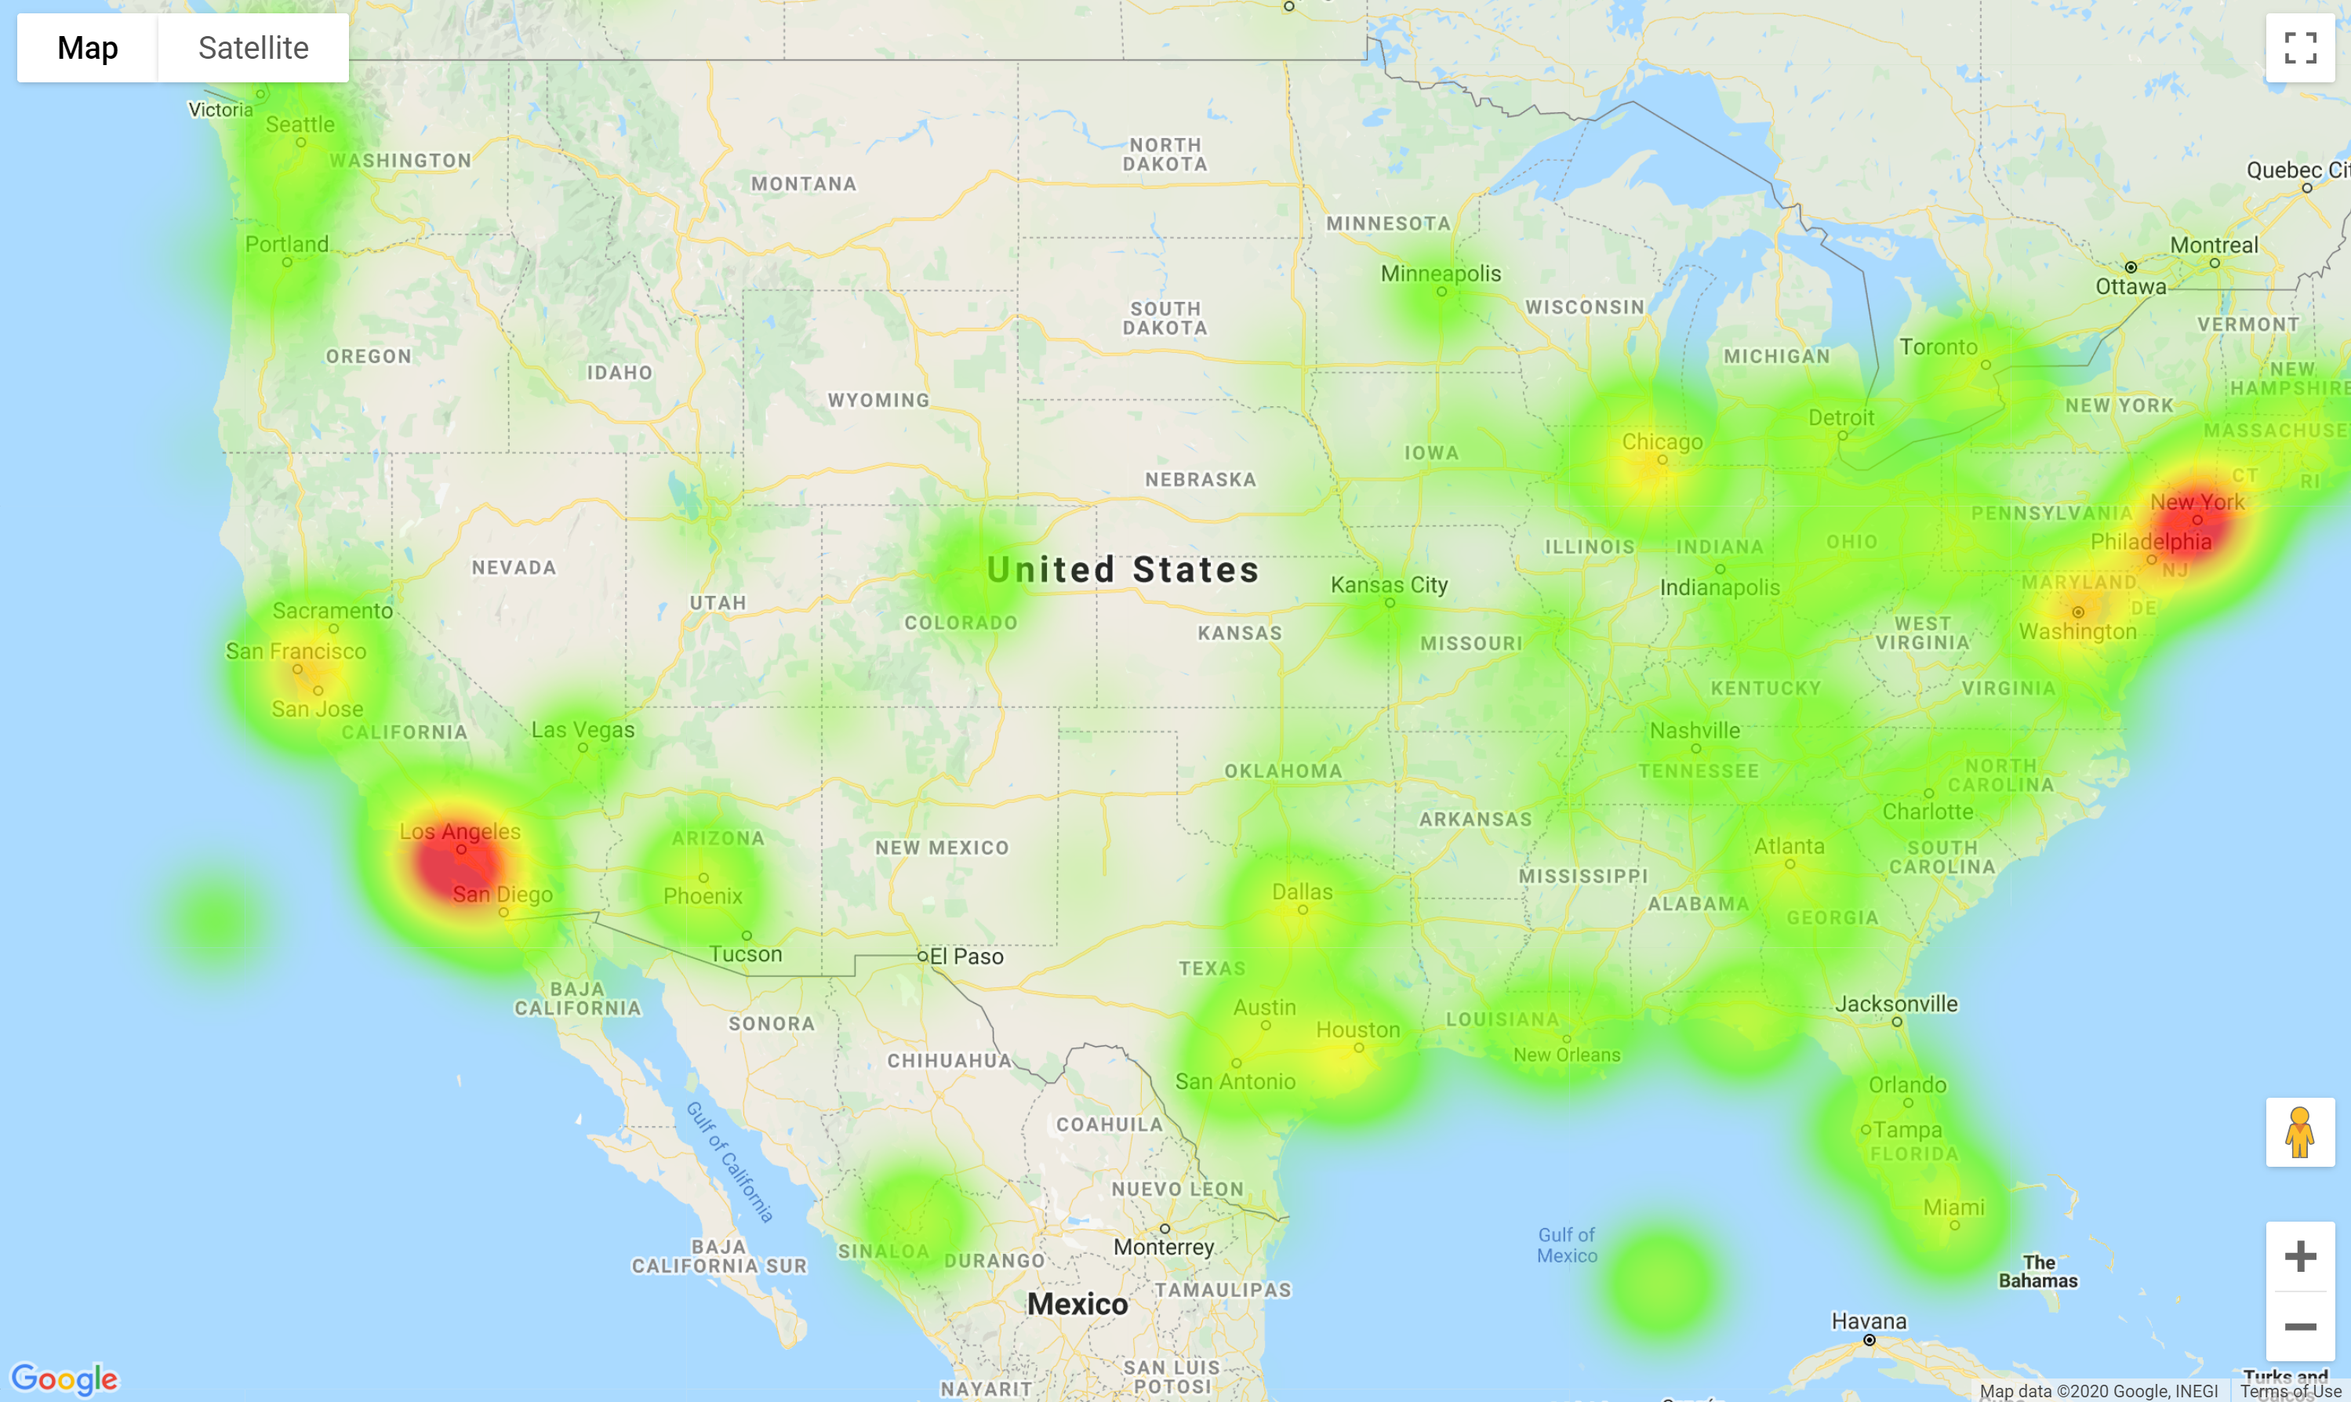
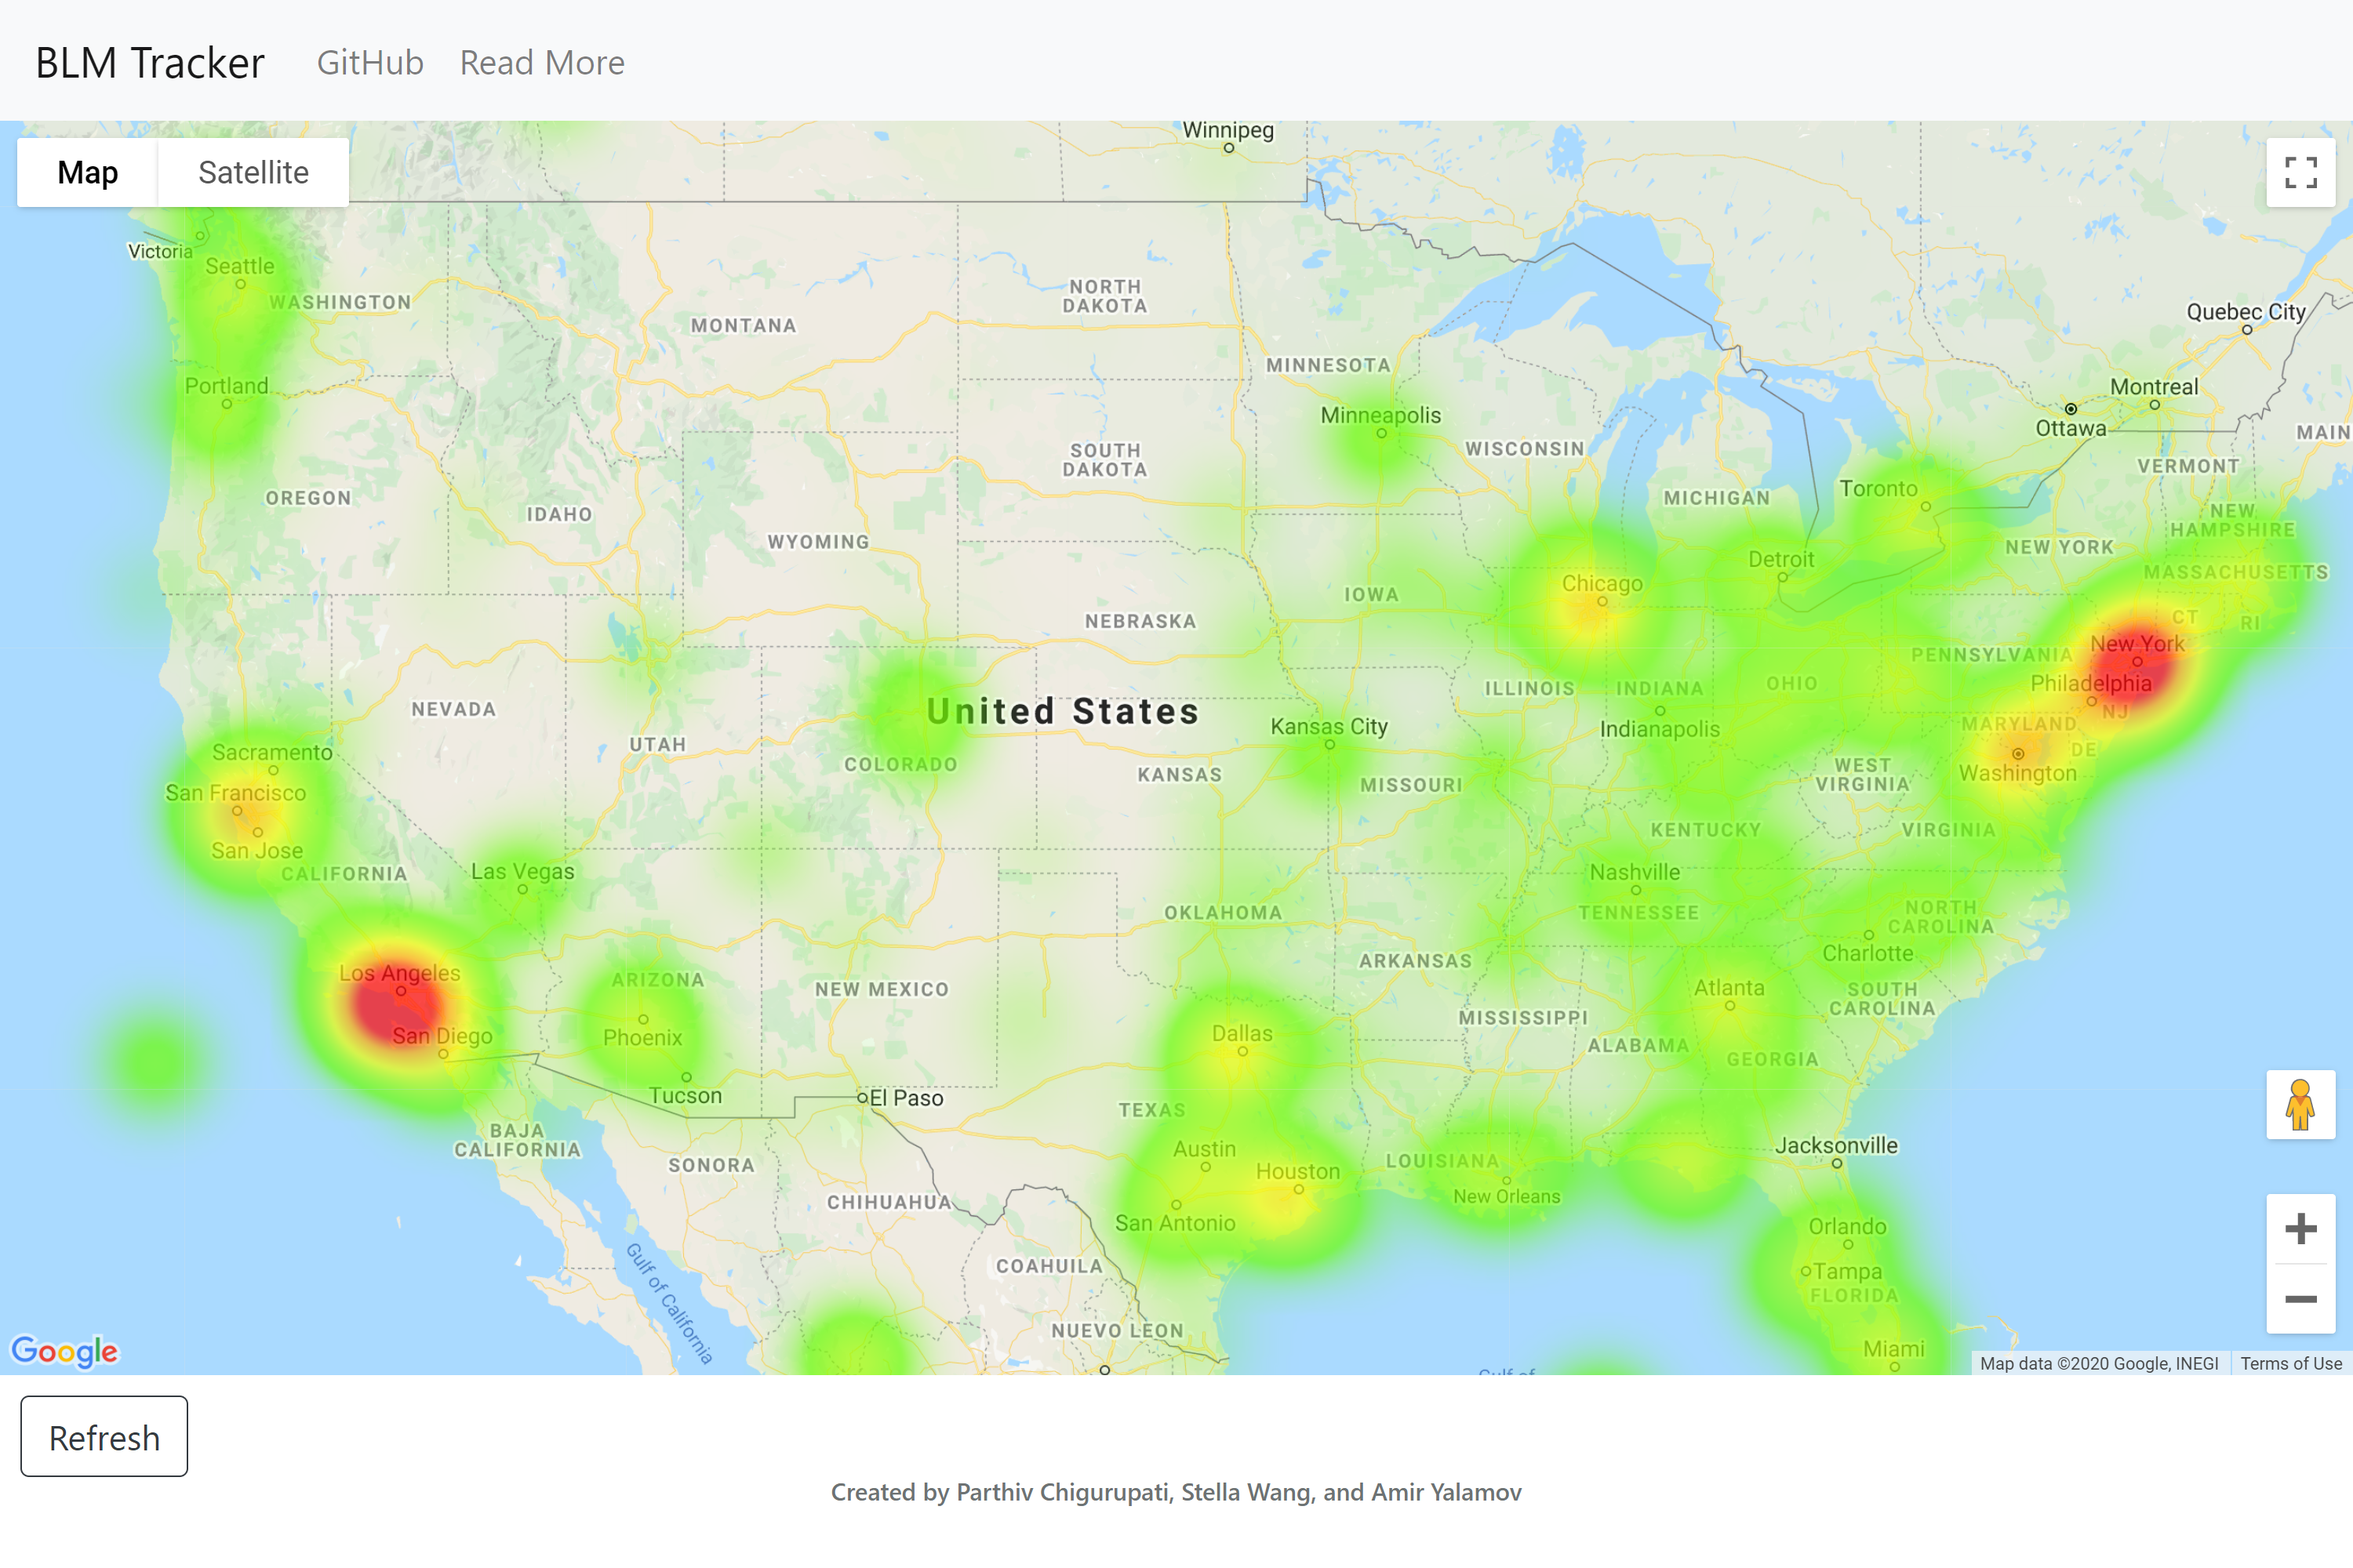
Added content from devpost submission

diff --git a/README.md b/README.md
@@ -1,7 +1,6 @@
 # BLM Tracker
-Python project that streams twitter data through a classifier to determine the amount of social activity surrounding a social movement and visualizing it
+Python project that streams Twitter data through a classifier to determine the amount of social activity surrounding a social movement and visualizing it
 ![UI](images/ui.png)
-
 
 ## Installation
 You can download the code for this project by executing the following:
@@ -14,6 +13,32 @@ After you have acquired the necessary API keys, download the following [GloVe](h
 
 If you wish to train your own model, you can download a dataset of 1.6 million tweets [here](https://drive.google.com/u/0/uc?export=download&confirm=fK_D&id=0B04GJPshIjmPRnZManQwWEdTZjg) (This will start a 78MB download)
 
+Organize and name your files as per the file structure below
+
+![File Structure](images/fileStructure.png)
+
+
+## Inspiration
+
+With all the Black Lives Matter protests going on in the United States and around the world, social media plays a central role in making people's voices on the matter heard. We thought it would be a great step up if we could visualize the world's social media activity regarding the movement and see which cities and countries are the most active.  
+
+## What It Does
+
+BLM Tracker uses relevant tweets from twitter to create a heat map of which cities are the most active about the movement on social media. It does this by parsing tweets from twitter and using a sentiment analysis model to classify tweets relevant to the BLM movement based on keywords and phrases. It then stores those tweets in a MongoDB instance. It then uses a Flask front-end to connect to the MongoDB instance and iterate through the tweets and create a JSON object of a collection of the latitude and longitude for each of those tweets. This gets passed into the Google Maps API, which creates the heat map.
+
+## How We Built It
+
+This project was built in Python, HTML, and JavaScript.
+
+## What We Learned
+
+We learned a lot about Keras and how sentiment analysis worked. We also learned a lot about several other open source projects like BentoML while researching about different tools we could use for our project.
+
+Further, we learned a ton about Flask and how to integrate MongoDB, parse entries for necessary info, format JSON objects, and integrate all that with the Google Maps API. 
+
+## What's next for BLM Tracker
+
+There are definitely a lot of features that can be further implemented to enhance the experience of the heat map. A desirable one would be to have a sidebar showing the most recent tweets, or a sidebar showing trending keywords.
 
 ## Technologies Used
 ### Open Source 
